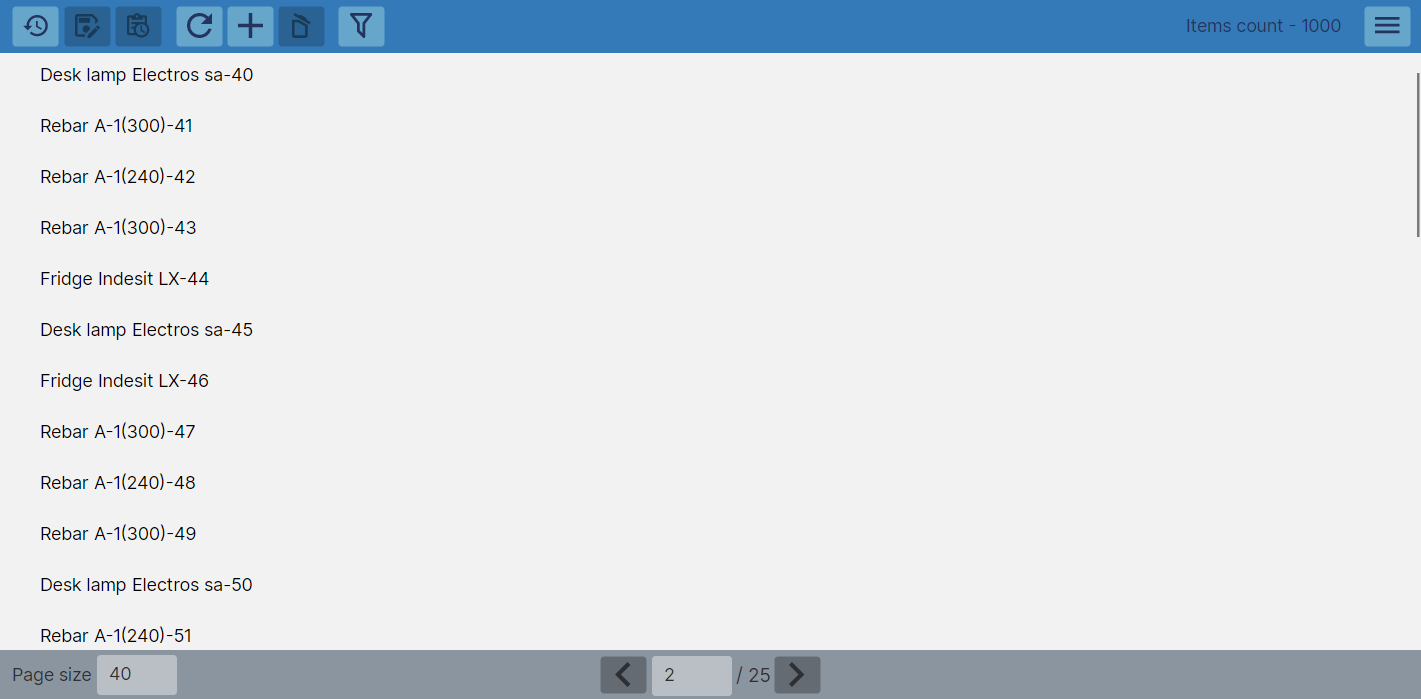
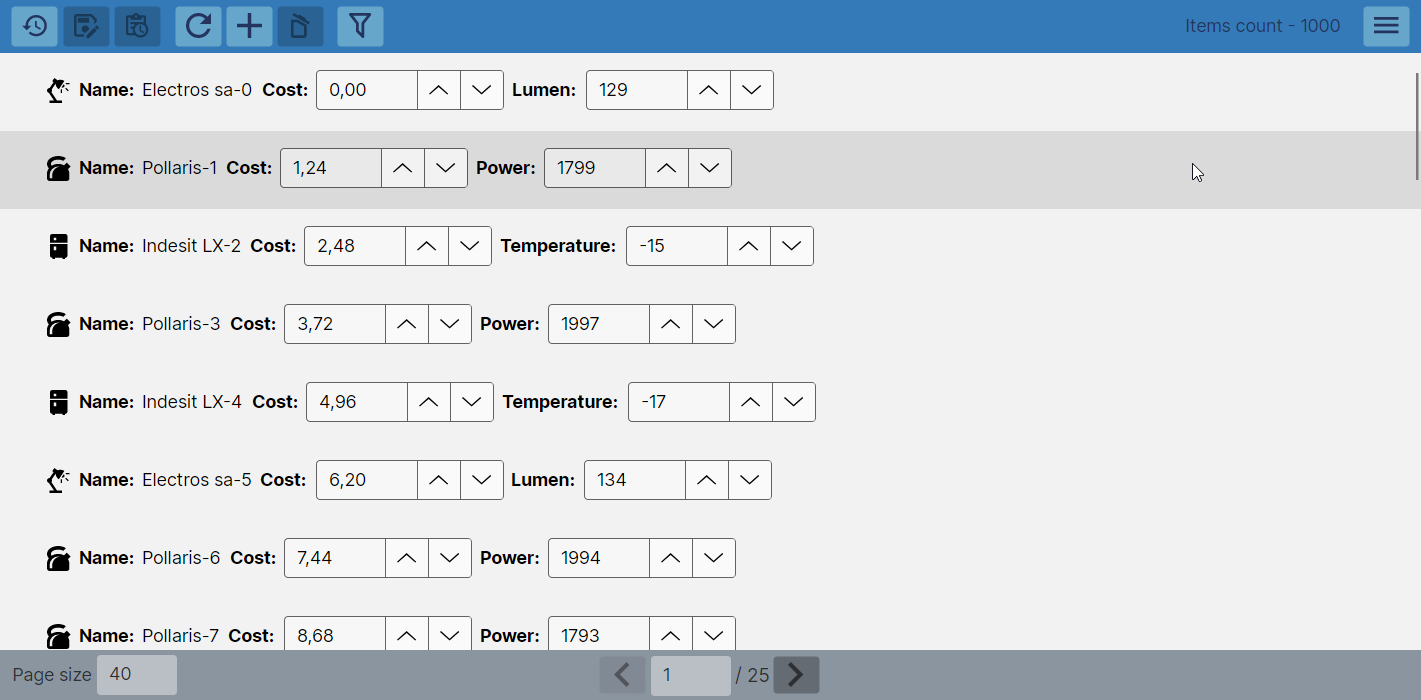
change wiki and fix Sample

diff --git a/ElementsEditor.Sample/PostgresDb/DbKettleMap.cs b/ElementsEditor.Sample/PostgresDb/DbKettleMap.cs
@@ -1,0 +1,57 @@
+using ElementsEditor.Gateway.PostgresDb;
+using ElementsEditor.Sample.Models;
+using Npgsql;
+using System;
+using System.Collections.Generic;
+using System.Globalization;
+using System.Linq;
+using System.Text;
+using System.Threading.Tasks;
+
+namespace ElementsEditor.Sample.PostgresDb
+{
+    internal class DbKettleMap : IDbElementMap
+    {
+        public bool CanCreateQuery(Element element) => element is Kettle;
+
+        public bool CanMapToModel(NpgsqlDataReader reader, DbTableColumnsMap propertyMap)
+        {
+            return reader.GetFieldValue<string>(propertyMap.DeterminatorColumnIndex) == propertyMap.DeterminatorMap[typeof(Kettle)];
+        }
+
+        public Element MapToModel(NpgsqlDataReader reader, DbTableColumnsMap propertyMap)
+        {
+            return new Kettle(
+                reader.GetFieldValue<Guid>(propertyMap.GetPropertyNameInDb(nameof(Kettle.Id)).ColumnIndex).ToString(),
+                (AccessRights)Enum.Parse<DbAccessRigts>(reader.GetFieldValue<string>(propertyMap.GetPropertyNameInDb(nameof(Kettle.Access)).ColumnIndex)),
+                reader.GetFieldValue<decimal>(propertyMap.GetPropertyNameInDb(nameof(Kettle.Cost)).ColumnIndex),
+                reader.GetFieldValue<string>(propertyMap.GetPropertyNameInDb(nameof(Kettle.Name)).ColumnIndex),
+                reader.GetFieldValue<int>(propertyMap.GetPropertyNameInDb(nameof(Kettle.Power)).ColumnIndex)
+                );
+        }
+
+        public string CreateInsertQuery(Element element, DbTableColumnsMap propertyMap)
+        {
+            var kettle = (Kettle)element;
+            return $"insert into {propertyMap.TableName} (" +
+                $"{propertyMap.GetPropertyNameInDb(nameof(Kettle.Id)).ColumnName}," +
+                $"{propertyMap.GetPropertyNameInDb(nameof(Kettle.Access)).ColumnName}," +
+                $"{propertyMap.GetPropertyNameInDb(nameof(Kettle.Cost)).ColumnName}," +
+                $"{propertyMap.GetPropertyNameInDb(nameof(Kettle.Name)).ColumnName}," +
+                $"{propertyMap.GetPropertyNameInDb(nameof(Kettle.Power)).ColumnName}) " +
+                $"values ('{kettle.Id}', '{Enum.GetName((DbAccessRigts)kettle.Access)}', {kettle.Cost.ToString(CultureInfo.GetCultureInfo("en-US"))}," +
+                $"'{kettle.Name}', '{kettle.Power}');";
+        }
+
+        public string CreateUpdateQuery(Element element, DbTableColumnsMap propertyMap)
+        {
+            var kettle = (Kettle)element;
+            return $"update {propertyMap.TableName} set " +                
+                $"{propertyMap.GetPropertyNameInDb(nameof(Kettle.Access)).ColumnName} = '{Enum.GetName((DbAccessRigts)kettle.Access)}'," +
+                $"{propertyMap.GetPropertyNameInDb(nameof(Kettle.Cost)).ColumnName} = {kettle.Cost.ToString(CultureInfo.GetCultureInfo("en-US"))}," +
+                $"{propertyMap.GetPropertyNameInDb(nameof(Kettle.Name)).ColumnName} = '{kettle.Name}'," +
+                $"{propertyMap.GetPropertyNameInDb(nameof(Kettle.Power)).ColumnName} = '{kettle.Power}'" +
+                $" where {propertyMap.GetPropertyNameInDb(nameof(Kettle.Id)).ColumnName} = '{kettle.Id}';";
+        }
+    }
+}

diff --git a/ElementsEditor.Sample/ViewModels/MainWindowViewModel.cs b/ElementsEditor.Sample/ViewModels/MainWindowViewModel.cs
@@ -19,7 +19,7 @@ namespace ElementsEditor.Sample.ViewModels
 	{
 		public ElementsEditorViewModel<Product> ElementsEditorViewModel { get;}		
 
-		public MainWindowViewModel(DbGateway<Product> gateway)
+		public MainWindowViewModel(IElementsGateway<Product> gateway)
 		{			
 			ElementsEditorViewModel = new ElementsEditorViewModel<Product>(
                 gateway,
@@ -28,26 +28,7 @@ namespace ElementsEditor.Sample.ViewModels
 				elementBuilders: GeneratElementBuilders(),
 				enableRemoving: true
             );						
-        }		
-
-
-		private IEnumerable<Product> GenerateElements()
-		{
-			int count = 1000;
-			var products = new List<Product>(count);
-			for (int i = 0; i < count; i++)
-			{
-				if (i % 5 == 0)
-					products.Add(new DeskLamp(Guid.NewGuid().ToString(), AccessRights.All, (Decimal)1.24 * i, $"Electros sa-{i}", i + 259 / 2));
-				else if (i % 3 == 0)
-					products.Add(new Rebar(Guid.NewGuid().ToString(), AccessRights.All, (Decimal)1.24 * i, $"A-1(240)-{i}", $"PT1{i % 2}-NZ{i}"));
-				else if (i % 2 == 0)
-					products.Add(new Fridge(Guid.NewGuid().ToString(), AccessRights.All, (Decimal)1.24 * i, $"Indesit LX-{i}", -(i % 100 + 13)));
-				else
-					products.Add(new Rebar(Guid.NewGuid().ToString(), AccessRights.All, (Decimal)1.24 * i, $"A-1(300)-{i}", $"HT1{i % 2}-PR{i}"));
-            }
-			return products;
-		}
+        }				
 
 		private IEnumerable<PropertyFilterDescriptor> GenerateFilterDescriptors()
 		{
@@ -55,7 +36,9 @@ namespace ElementsEditor.Sample.ViewModels
 			filters.Add(new PropertyFilterDescriptor(nameof(Product.Cost), GetCostProperty));
             filters.Add(new PropertyFilterDescriptor(nameof(Product.Name), GetNameProperty));
             filters.Add(new PropertyFilterDescriptor(nameof(Fridge.Temperature), GetTemperatureProperty));
-			return filters;
+			filters.Add(new PropertyFilterDescriptor(nameof(DeskLamp.Lumen), GetLumenProperty));
+            filters.Add(new PropertyFilterDescriptor(nameof(Kettle.Power), GetPowerProperty));
+            return filters;
         }
 
 
@@ -64,7 +47,7 @@ namespace ElementsEditor.Sample.ViewModels
 			return new List<ElementBuilder>()
 			{
 				new FridgeBuilder("Create fridge"),
-				new RebarBuilder("Create rebar"),
+				new KettleBuilder("Create rebar"),
 				new DeskLampBuilder("Create desklamp")
 			};
 		}
@@ -89,6 +72,22 @@ namespace ElementsEditor.Sample.ViewModels
             result = fridge?.Temperature ?? default;
             return fridge is null ? false : true;
         }
+
+        private bool GetPowerProperty(Element element, out int result)
+        {
+            var kettle = element as Kettle;
+            result = kettle?.Power ?? default;
+            return kettle is null ? false : true;
+        }
+
+        private bool GetLumenProperty(Element element, out int result)
+        {
+            var deskLamp = element as DeskLamp;
+            result = deskLamp?.Lumen ?? default;
+            return deskLamp is null ? false : true;
+        }
+
+
 
         #region INotifyPropertyChanged impl
         public event PropertyChangedEventHandler? PropertyChanged;

diff --git a/ElementsEditor.Sample/App.axaml.cs b/ElementsEditor.Sample/App.axaml.cs
@@ -3,10 +3,13 @@ using Avalonia.Controls.ApplicationLifetimes;
 using Avalonia.Markup.Xaml;
 using ElementsEditor.Gateway.PostgresDb;
 using ElementsEditor.Sample.Configuration;
+using ElementsEditor.Sample.Helpers;
+using ElementsEditor.Sample.Models;
 using ElementsEditor.Sample.PostgresDb;
 using ElementsEditor.Sample.ViewModels;
 using Microsoft.Extensions.Configuration;
 using System;
+using System.Collections.Generic;
 
 namespace ElementsEditor.Sample
 {
@@ -20,19 +23,29 @@ namespace ElementsEditor.Sample
         public override void OnFrameworkInitializationCompleted()
         {
             if (ApplicationLifetime is IClassicDesktopStyleApplicationLifetime desktop)
-            {                
-                var config = new ConfigurationBuilder().AddJsonFile("appsettings.json").Build();                
-                DbTableColumnsMapConfigurator configurator = new DbTableColumnsMapConfigurator();
-                var tableColumnsMap = configurator.Configure(config);
-                DbElementMapsBuilder elementMapBuilder = new DbElementMapsBuilder();
-                elementMapBuilder.Add(new DbDeskLampMap()).Add(new DbFridgeMap()).Add(new DbRebarMap());
-                desktop.MainWindow = new MainWindow(new MainWindowViewModel(
-                    new DbGateway<Models.Product>(config.GetConnectionString("Default")!,
-                                                  tableColumnsMap,
-                                                  elementMapBuilder.Build())));
+            {                                
+                desktop.MainWindow = new MainWindow(new MainWindowViewModel(GetGateway()));
             }
 
             base.OnFrameworkInitializationCompleted();
         }
+
+        private IElementsGateway<Product> GetGateway()
+        {
+            var config = new ConfigurationBuilder().AddJsonFile("appsettings.json").Build();            
+            if (config["DataProvider"] == "Postgres")
+            {
+                DbTableColumnsMapConfigurator configurator = new DbTableColumnsMapConfigurator();
+                var tableColumnsMap = configurator.Configure(config);
+                DbElementMapsBuilder elementMapBuilder = new DbElementMapsBuilder();
+                elementMapBuilder.Add(new DbDeskLampMap()).Add(new DbFridgeMap()).Add(new DbKettleMap());
+                return new DbGateway<Product>(config.GetConnectionString("Default")!,
+                                              tableColumnsMap,
+                                              elementMapBuilder.Build());
+            }
+            else
+                return new ElementsCollectionGateway<Product>(ProductGenerator.Generate())
+                { DebugDelay = 600};
+        }       
     }
 }

diff --git a/ElementsEditor.Sample/Helpers/ProductGenerator.cs b/ElementsEditor.Sample/Helpers/ProductGenerator.cs
@@ -1,0 +1,30 @@
+using ElementsEditor.Sample.Models;
+using System;
+using System.Collections.Generic;
+using System.Linq;
+using System.Text;
+using System.Threading.Tasks;
+
+namespace ElementsEditor.Sample.Helpers
+{
+    internal class ProductGenerator
+    {
+        public static IEnumerable<Product> Generate()
+        {
+            int count = 1000;
+            var products = new List<Product>(count);
+            for (int i = 0; i < count; i++)
+            {
+                if (i % 5 == 0)
+                    products.Add(new DeskLamp(Guid.NewGuid().ToString(), AccessRights.All, (Decimal)1.24 * i, $"Electros sa-{i}", i + 259 / 2));
+                else if (i % 3 == 0)
+                    products.Add(new Kettle(Guid.NewGuid().ToString(), AccessRights.All, (Decimal)1.24 * i, $"Pollaris-{i}", 2000 - i % 100));
+                else if (i % 2 == 0)
+                    products.Add(new Fridge(Guid.NewGuid().ToString(), AccessRights.All, (Decimal)1.24 * i, $"Indesit LX-{i}", -(i % 100 + 13)));
+                else
+                    products.Add(new Kettle(Guid.NewGuid().ToString(), AccessRights.All, (Decimal)1.24 * i, $"Pollaris-{i}", 1800 - i % 100));
+            }
+            return products;
+        }
+    }
+}

diff --git a/ElementsEditor/ViewModels/ElementsEditorViewModel.cs b/ElementsEditor/ViewModels/ElementsEditorViewModel.cs
@@ -285,8 +285,11 @@ namespace ElementsEditor
                 else
                     _itemsGateway.SaveChanges(
                         _changedItemsGateway.Elements);
+                foreach (var element in _changedItemsGateway.Elements)                
+                    element.ResetState();                
                 _changedItemsGateway.Elements.Clear();
             }
+            catch (OperationCanceledException) { }
             catch (Exception e) { throw; }
             finally
             {
@@ -347,6 +350,7 @@ namespace ElementsEditor
                     Elements.Add(newElements[i]);
                 }
             }
+            catch (OperationCanceledException) { }
             catch (Exception e) { throw; }
             finally
             {
@@ -357,7 +361,8 @@ namespace ElementsEditor
 
         void IElementsStateWatcher.OnChangeState(Element element)
         {
-            if (!_changedItemsGateway.Elements.Contains(element))
+            if (!_changedItemsGateway.Elements.Contains(element)
+                && element.State != ElementState.None)
                 _changedItemsGateway.Elements.Add((TElement)element);
         }
 

diff --git a/ElementsEditor.Sample/Models/ProductBuilder.cs b/ElementsEditor.Sample/Models/ProductBuilder.cs
@@ -57,29 +57,29 @@ namespace ElementsEditor.Sample.Models
     }
 
 
-    public class RebarBuilder : ProductBuilder
+    public class KettleBuilder : ProductBuilder
     {
-        public RebarBuilder(string name) : base(name)
+        public KettleBuilder(string name) : base(name)
         {
         }
 
-        private string? _type;
-        public string? Type
+        private int _power;
+        public int Power
         {
-            get => _type;
-            set => SetAndRaisePropertyChanged(ref _type, value);
+            get => _power;
+            set => SetAndRaisePropertyChanged(ref _power, value);
         }
 
         public override Element Build()
         {
-            return new Rebar(Guid.NewGuid().ToString(), AccessRights.All, Cost, ProductName, _type);
+            return new Kettle(Guid.NewGuid().ToString(), AccessRights.All, Cost, ProductName, _power);
         }
 
         public override void ResetProperties()
         {
             Cost = default;
             ProductName = string.Empty;
-            Type = string.Empty;
+            Power = default;
         }
     }
 

diff --git a/ElementsEditor/Element.cs b/ElementsEditor/Element.cs
@@ -9,7 +9,7 @@ using System.Threading.Tasks;
 
 namespace ElementsEditor
 {
-
+    // todo: implement reset properties value after call ResetState
     public abstract class Element: INotifyPropertyChanged, IEquatable<Element?>
     {        
         private AccessRights _accessRights;
@@ -46,12 +46,11 @@ namespace ElementsEditor
             } 
         }
 
-        internal Element ResetState()
-        {
-            Element result = _state == ElementState.Modified ? _previousStateElement! :this;            
+        internal void ResetState()
+        {            
             _state = _previousState;            
             _previousState = ElementState.None;
-            return result;
+            _propertyChanged?.Invoke(this, new PropertyChangedEventArgs(nameof(State)));            
         }
 
         protected virtual Element Clone()

diff --git a/ElementsEditor.Sample/Models/Product.cs b/ElementsEditor.Sample/Models/Product.cs
@@ -64,19 +64,19 @@ namespace ElementsEditor.Sample.Models
     }
 
 
-    public sealed class Rebar : Product
+    public sealed class Kettle : Product
     {
-        public Rebar(string id, AccessRights accessRights, decimal cost, string name, string type) : base(id, accessRights, cost, name)
+        public Kettle(string id, AccessRights accessRights, decimal cost, string name, int power) : base(id, accessRights, cost, name)
         {
-            _type = type;
+            _power = power;
         }
 
 
-        private string _type;
-        public string Type
+        private int _power;
+        public int Power
         {
-            get => _type;
-            set => SetAndRaisePropertyChanged(ref _type, value);
+            get => _power;
+            set => SetAndRaisePropertyChanged(ref _power, value);
         }
 
     }
